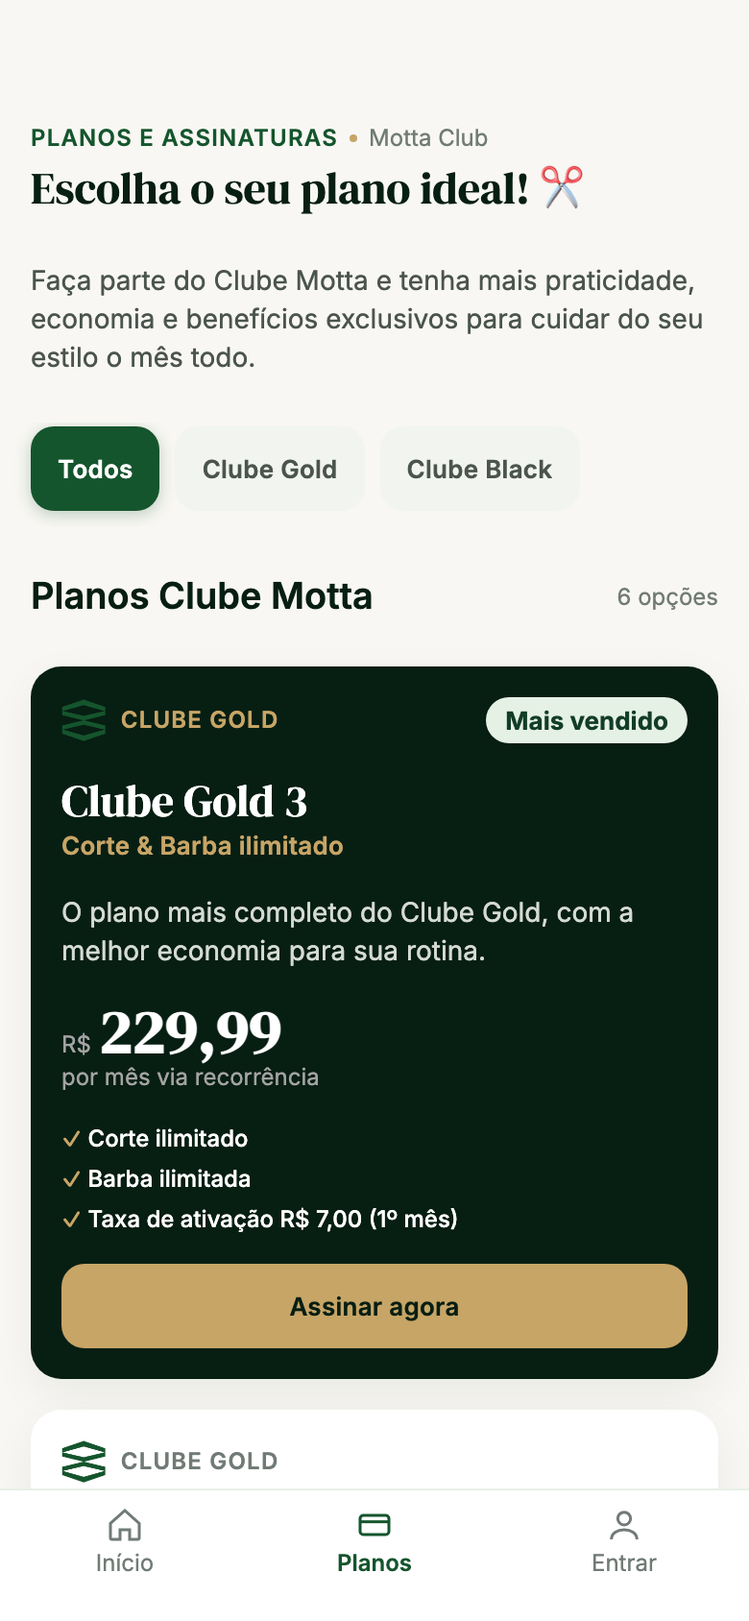
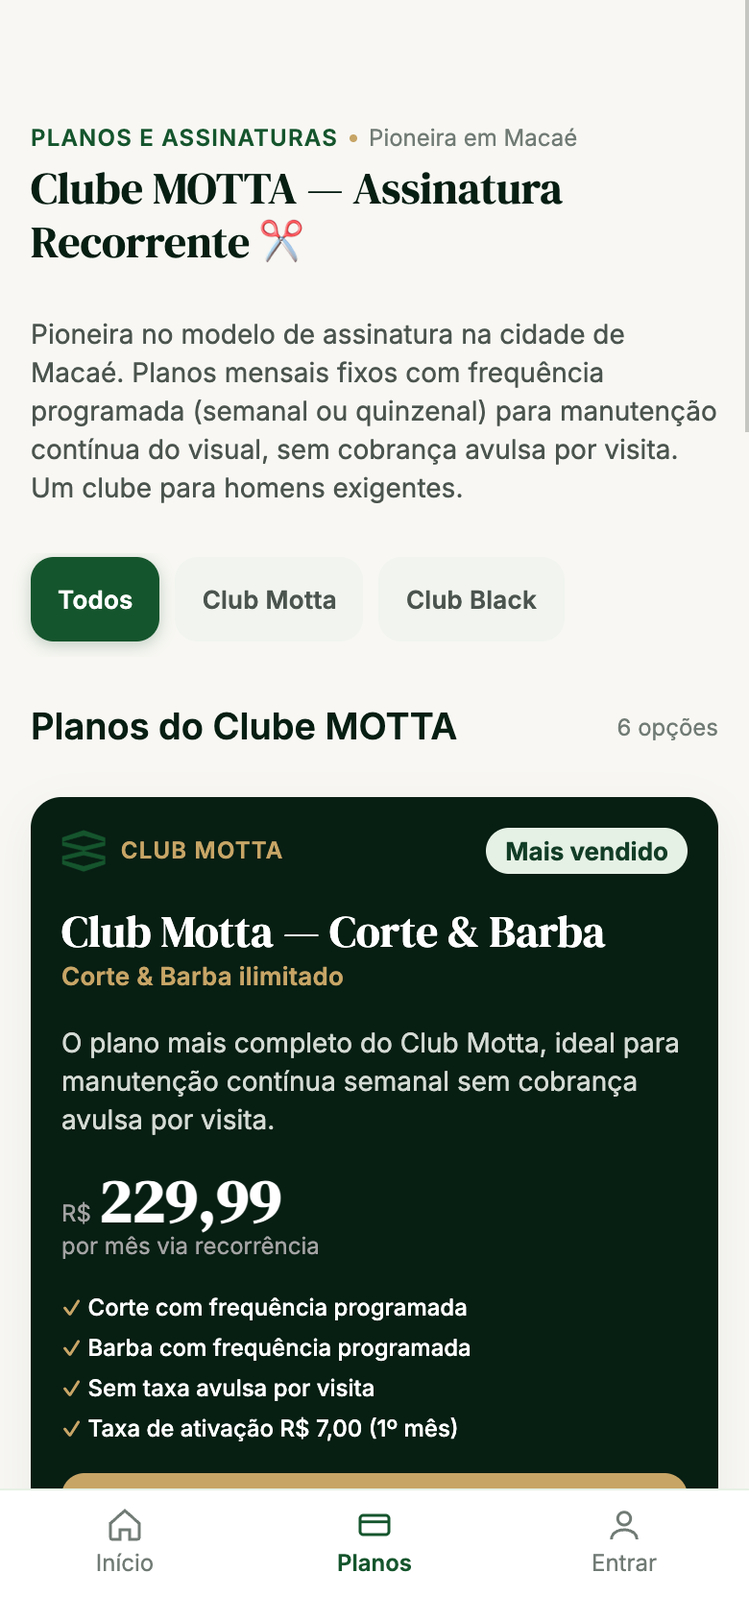
feat: atualizar conceito do clube motta, pilares e whatsapp oficial (22) 99838-9803

Changed region(s): [[0.0308, 0.0616, 0.9846, 0.9242], [0.9846, 0.0, 1.0, 0.2773]]

diff --git a/app/app.js b/app/app.js
@@ -32,12 +32,12 @@ const perks = [
   ["Prioridade na lista de espera", "Vaga automática em caso de desistências"],
 ];
 const plans = [
-  { id: "gold3", tier: "gold", dark: true, tag: "Mais vendido", eyebrow: "Clube Gold", name: "Clube Gold 3", sub: "Corte & Barba ilimitado", desc: "O plano mais completo do Clube Gold, com a melhor economia para sua rotina.", price: "229,99", per: "por mês via recorrência", feats: ["Corte ilimitado", "Barba ilimitada", "Taxa de ativação R$ 7,00 (1º mês)"], cta: "Assinar agora" },
-  { id: "gold2", tier: "gold", name: "Clube Gold 2", sub: "Barba ilimitada", desc: "Ideal para quem quer a barba sempre alinhada e impecável.", price: "129,99", per: "por mês", feats: ["Barba ilimitada", "Vigência indeterminada", "Taxa de ativação R$ 7,00 (1º mês)"], cta: "Comprar" },
-  { id: "gold1", tier: "gold", name: "Clube Gold 1", sub: "Corte ilimitado", desc: "Cortes ilimitados para manter o degradê fresco toda semana.", price: "125,99", per: "por mês", feats: ["Corte ilimitado", "Vigência indeterminada", "Taxa de ativação R$ 7,00 (1º mês)"], cta: "Comprar" },
-  { id: "black1", tier: "black", dark: true, tag: "Vagas limitadas", eyebrow: "Clube Black", name: "Corte Ilimitado Black", sub: "Exclusivo", desc: "Corte sempre em dia, com atendimento prioritário e lavagem especial.", price: "159,99", per: "por mês", scarce: "Resta 4 vaga(s)", feats: ["Corte ilimitado", "Taxa de ativação R$ 7,00 (1º mês)"], cta: "Garantir vaga" },
-  { id: "black2", tier: "black", dark: true, tag: "Vagas limitadas", eyebrow: "Clube Black", name: "Barba Ilimitada Black", sub: "Exclusivo", desc: "Alinhamento, toalha quente e produtos premium da linha Black.", price: "159,99", per: "por mês", scarce: "Resta 1 vaga(s)", feats: ["Barba ilimitada", "Taxa de ativação R$ 7,00 (1º mês)"], cta: "Garantir vaga" },
-  { id: "prime", tier: "black", dark: true, tag: "Poucas vagas", eyebrow: "Clube Black Prime", name: "Corte & Barba Black", sub: "O mais completo", desc: "Total liberdade para barba e corte, bebidas de cortesia e horário flexível.", price: "299,99", per: "por mês na assinatura", scarce: "Resta 14 vaga(s)", feats: ["Corte livre", "Barba livre", "Taxa de ativação R$ 7,00 (1º mês)"], cta: "Garantir vaga" },
+  { id: "gold3", tier: "gold", dark: true, tag: "Mais vendido", eyebrow: "Club Motta", name: "Club Motta — Corte & Barba", sub: "Corte & Barba ilimitado", desc: "O plano mais completo do Club Motta, ideal para manutenção contínua semanal sem cobrança avulsa por visita.", price: "229,99", per: "por mês via recorrência", feats: ["Corte com frequência programada", "Barba com frequência programada", "Sem taxa avulsa por visita", "Taxa de ativação R$ 7,00 (1º mês)"], cta: "Assinar agora" },
+  { id: "gold2", tier: "gold", name: "Club Motta — Barba", sub: "Barba alinhada sempre", desc: "Ideal para quem quer a barba sempre desenhada e alinhada toda semana sem cobrança avulsa.", price: "129,99", per: "por mês", feats: ["Barba com frequência programada", "Barboterapia com toalha quente", "Taxa de ativação R$ 7,00 (1º mês)"], cta: "Comprar" },
+  { id: "gold1", tier: "gold", name: "Club Motta — Corte", sub: "Corte na frequência ideal", desc: "Cortes com frequência programada para manter o visual impecável sem pagar a cada visita.", price: "125,99", per: "por mês", feats: ["Corte com frequência programada", "Manutenção contínua do visual", "Taxa de ativação R$ 7,00 (1º mês)"], cta: "Comprar" },
+  { id: "black1", tier: "black", dark: true, tag: "Vagas limitadas", eyebrow: "Club Black", name: "Club Black — Corte VIP", sub: "Para homens exigentes", desc: "Corte sempre em dia, atendimento prioritário, lavagem especial e produtos da linha profissional.", price: "159,99", per: "por mês", scarce: "Resta 4 vaga(s)", feats: ["Atendimento prioritário", "Corte com frequência programada", "Linha profissional homologada", "Taxa de ativação R$ 7,00 (1º mês)"], cta: "Garantir vaga" },
+  { id: "black2", tier: "black", dark: true, tag: "Vagas limitadas", eyebrow: "Club Black", name: "Club Black — Barba VIP", sub: "Autocuidado premium", desc: "Alinhamento de precisão, toalha quente e tratamentos capilares e de pele com produtos premium.", price: "159,99", per: "por mês", scarce: "Resta 1 vaga(s)", feats: ["Barba com atendimento prioritário", "Toalha quente e barboterapia", "Produtos da linha profissional", "Taxa de ativação R$ 7,00 (1º mês)"], cta: "Garantir vaga" },
+  { id: "prime", tier: "black", dark: true, tag: "Poucas vagas", eyebrow: "Club Black Prime", name: "Club Black — Prime Total", sub: "Experiência definitiva", desc: "Total liberdade para barba e corte, cobertura ampliada com tratamentos e bebidas cortesia.", price: "299,99", per: "por mês na assinatura", scarce: "Resta 14 vaga(s)", feats: ["Corte e Barba prioritários", "Cobertura de tratamentos e cuidados", "Sem cobrança avulsa por visita", "Taxa de ativação R$ 7,00 (1º mês)"], cta: "Garantir vaga" },
 ];
 const upcoming = [
   { id: "a1", day: "24", mon: "Out", time: "15:30", barber: "Michel Nogueira", role: "Barbeiro Master & Visagista", svc: "Corte Masculino + Barba", note: "Em 3 dias", total: "R$ 32,30" },
@@ -200,16 +200,16 @@ const screens = {
       </div>
     </article>
     <section class="hero">
-      <span class="eyebrow" style="letter-spacing:1.2px;">Assinatura Mensal</span>
-      <h2>Cortes Ilimitados?</h2>
-      <p>Faça parte do Clube Motta e cuide do seu estilo toda semana com comodidade.</p>
-      <a class="btn" style="text-decoration:none;text-align:center;background:#fff;color:var(--ink);" href="#/planos">Conhecer planos</a>
+      <span class="eyebrow" style="letter-spacing:1.2px;">Clube por Assinatura</span>
+      <h2>Clube MOTTA — Pioneira em Macaé</h2>
+      <p>Planos mensais fixos para manter corte e barba com frequência programada, sem cobrança avulsa por visita.</p>
+      <a class="btn" style="text-decoration:none;text-align:center;background:#fff;color:var(--ink);font-weight:600;" href="#/planos">Conhecer planos</a>
     </section>
     <section class="card">
-      <div class="item" style="color:var(--ink)">Por que agendar pelo aplicativo?</div>
-      <div class="legend"><b>Pontualidade e Praticidade:</b> Sem filas. Horário reservado exclusivamente.</div>
-      <div class="legend"><b>Barbeiros Especialistas:</b> Visagismo sob medida e consultoria de estilo.</div>
-      <div class="legend"><b>Vantagens Clube Motta:</b> Membros acumulam créditos e desfrutam de bebidas premium cortesia.</div>
+      <div class="item" style="color:var(--ink)">Por que fazer parte do Clube MOTTA?</div>
+      <div class="legend"><b>Pioneirismo em Macaé:</b> Modelo inovador de assinatura recorrente com planos mensais fixos.</div>
+      <div class="legend"><b>Manutenção Contínua:</b> Atendimento semanal ou quinzenal para homens exigentes que prezam pelo visual impecável.</div>
+      <div class="legend"><b>Categorias Sob Medida:</b> Club Motta e Club Black com produtos homologados e visagismo exclusivo.</div>
     </section>`;
   },
   agendamentos() {
@@ -241,16 +241,16 @@ const screens = {
   planos() {
     const f = state.planFilter;
     const list = plans.filter((p) => f === "todos" || p.tier === f);
-    return `${header("Planos e assinaturas", "Motta Club", "Escolha o seu plano ideal! ✂")}
-    <p class="body">Faça parte do Clube Motta e tenha mais praticidade, economia e benefícios exclusivos para cuidar do seu estilo o mês todo.</p>
-    ${tabs([["todos", "Todos"], ["gold", "Clube Gold"], ["black", "Clube Black"]], f, "pf")}
-    <div class="row between"><h2 class="h-section">Planos Clube ${f === "black" ? "Black" : f === "gold" ? "Gold" : "Motta"}</h2><span class="legend">${list.length} opções</span></div>
+    return `${header("Planos e assinaturas", "Pioneira em Macaé", "Clube MOTTA — Assinatura Recorrente ✂")}
+    <p class="body">Pioneira no modelo de assinatura na cidade de Macaé. Planos mensais fixos com frequência programada (semanal ou quinzenal) para manutenção contínua do visual, sem cobrança avulsa por visita. Um clube para homens exigentes.</p>
+    ${tabs([["todos", "Todos"], ["gold", "Club Motta"], ["black", "Club Black"]], f, "pf")}
+    <div class="row between"><h2 class="h-section">${f === "black" ? "Categoria Club Black (VIP)" : f === "gold" ? "Categoria Club Motta" : "Planos do Clube MOTTA"}</h2><span class="legend">${list.length} opções</span></div>
     <div class="col gap16">${list.map((p) => `
       <article class="card ${p.dark ? "dark" : ""}">
         <div class="row between">
           <div class="row" style="gap:8px;align-items:center;">
             <img src="${p.tier === 'black' ? 'assets/logos/club-black-transparent.png' : 'assets/logos/motta-symbol-green.png'}" alt="" style="height:22px;object-fit:contain;">
-            <span class="eyebrow" style="color:${p.dark ? "var(--gold)" : "var(--muted)"}">${p.eyebrow || "Clube Gold"}</span>
+            <span class="eyebrow" style="color:${p.dark ? "var(--gold)" : "var(--muted)"}">${p.eyebrow || "Club Motta"}</span>
           </div>
           ${p.tag ? `<span class="badge" style="${p.scarce ? "background:transparent;color:var(--gold-soft);padding:0" : ""}">${p.tag}</span>` : ""}
         </div>
@@ -258,25 +258,25 @@ const screens = {
         <p class="body">${p.desc}</p>
         <div><span class="legend">R$</span> <span class="price">${p.price}</span><div class="legend">${p.per}</div>${p.scarce ? `<div class="scarce">${p.scarce}</div>` : ""}</div>
         <ul>${p.feats.map((x) => `<li>${x}</li>`).join("")}</ul>
-        <button class="btn ${p.dark ? "gold" : "primary"} block" data-toast="${p.name}: checkout (demo)">${p.cta}</button>
+        <button class="btn ${p.dark ? "gold" : "primary"} block" data-toast="${p.name}: assinatura digital via link da bio / app">${p.cta}</button>
       </article>`).join("")}</div>
-    <section class="card"><div class="item" style="color:var(--text-strong)">Sem carência ou multas</div><div class="legend">Cancele ou pause sua assinatura quando quiser através do aplicativo.</div></section>`;
+    <section class="card"><div class="item" style="color:var(--text-strong)">Recorrência &amp; Gestão Digital</div><div class="legend">Contratação via plataforma integrada, sem carência ou multas. Pause ou altere seu plano quando quiser pelo aplicativo.</div></section>`;
   },
 
   boas_vindas() {
     return `<header class="col gap4">
       <div class="row between" style="align-items:center;">
-        <div class="row"><span class="eyebrow" style="color:var(--gold);letter-spacing:1.92px;">Barbearia Motta</span><span class="dot"></span><span class="legend">Seja Bem-vindo</span></div>
+        <div class="row"><span class="eyebrow" style="color:var(--gold);letter-spacing:1.92px;">Barbearia Motta</span><span class="dot"></span><span class="legend">Pioneira em Macaé</span></div>
         <img src="assets/logos/motta-symbol-green.png" alt="Motta" style="width:26px;height:26px;object-fit:contain;">
       </div>
-      <h1 class="h-display" style="font-size:28px;line-height:34px;">O seu novo ritual de estilo começa aqui.</h1>
-      <p class="body">Cuidado masculino elevado a outro patamar. Atendimento com hora marcada, visagismo exclusivo e hospitalidade premium na unidade Sol &amp; Mar.</p>
+      <h1 class="h-display" style="font-size:28px;line-height:34px;">Clube para homens exigentes.</h1>
+      <p class="body">Cuidado masculino contínuo na unidade Sol &amp; Mar. Frequência programada, visagismo exclusivo, produtos da linha profissional e hospitalidade de excelência.</p>
     </header>
 
     <section class="hero" aria-label="Boas-vindas">
       <div class="row between"><span class="eyebrow">Primeira Experiência</span><span class="pill">Cortesia VIP</span></div>
       <h2>Primeira Visita com Chopp &amp; Café</h2>
-      <p>Chegue 15 minutos antes para relaxar no lounge. Seu atendimento inclui café espresso gourmet ou chopp artesanal gelado cortesia.</p>
+      <p>Chegue 15 minutos antes para relaxar no lounge climatizado. Seu atendimento inclui café espresso gourmet ou chopp artesanal gelado cortesia.</p>
       <div class="row" style="gap:16px;padding-top:8px">
         <div class="meta">Unidade Sol &amp; Mar<b>Av. Carlos Augusto T. Garcia, 2040</b></div>
         <span style="width:1px;height:24px;background:var(--forest-800)"></span>
@@ -307,13 +307,13 @@ const screens = {
       <article class="card">
         <div class="row between">
           <div>
-            <span class="badge" style="background:var(--warn-bg);color:var(--warn-text);margin-bottom:6px;display:inline-block;">Economia Real</span>
-            <div class="item" style="font-size:16px;color:var(--text-strong)">Entrar para o Clube Motta</div>
-            <div class="legend" style="color:var(--text-2);margin-top:2px;">Cortes ou barbas ilimitados a partir de R$ 125,99/mês sem fidelidade.</div>
+            <span class="badge" style="background:var(--warn-bg);color:var(--warn-text);margin-bottom:6px;display:inline-block;">Economia &amp; Recorrência</span>
+            <div class="item" style="font-size:16px;color:var(--text-strong)">Assinar o Clube MOTTA</div>
+            <div class="legend" style="color:var(--text-2);margin-top:2px;">Planos mensais fixos com cortes e barbas semanais/quinzenais sem taxa avulsa por visita.</div>
           </div>
         </div>
         <div class="row between" style="padding-top:4px;">
-          <span class="legend" style="color:var(--text);">Até 100% OFF nos serviços</span>
+          <span class="legend" style="color:var(--text);">Categorias Club Motta e Club Black</span>
           <a class="btn" style="text-decoration:none;text-align:center;" href="#/planos">Conhecer planos</a>
         </div>
       </article>
@@ -321,40 +321,40 @@ const screens = {
 
     <section class="col gap16">
       <div>
-        <h2 class="h-section">Os 4 Pilares da Barbearia Motta</h2>
-        <p class="legend">Por que somos a barbearia referência em Macaé</p>
+        <h2 class="h-section">Pilares do Conceito Clube MOTTA</h2>
+        <p class="legend">Por que somos pioneiros no modelo de assinatura em Macaé</p>
       </div>
       <div class="card">
         <div>
-          <div class="item" style="color:var(--ink)">1. Pontualidade e Precisão</div>
-          <div class="legend" style="color:var(--text-2)">Seu tempo é sagrado. Horário reservado exclusivamente sem atrasos.</div>
+          <div class="item" style="color:var(--ink)">1. Modelo por Assinatura (Membro/Club)</div>
+          <div class="legend" style="color:var(--text-2)">Pioneira na cidade, a Barbearia Motta oferece planos mensais fixos que permitem realizar cortes, barba e manutenções com frequência programada, sem cobrança avulsa por visita.</div>
         </div>
         <div style="height:1px;background:var(--surface-soft);"></div>
         <div>
-          <div class="item" style="color:var(--ink)">2. Consultoria de Visagismo</div>
-          <div class="legend" style="color:var(--text-2)">Análise anatômica para harmonizar corte e barba com seus traços.</div>
+          <div class="item" style="color:var(--ink)">2. Segmentação em Categorias (Club Motta &amp; Club Black)</div>
+          <div class="legend" style="color:var(--text-2)">Membros divididos em níveis de benefícios, variando a cobertura de procedimentos (ex.: apenas corte, corte + barba/barboterapia, sobrancelha e tratamentos capilares como hidratação ou selagem).</div>
         </div>
         <div style="height:1px;background:var(--surface-soft);"></div>
         <div>
-          <div class="item" style="color:var(--ink)">3. Barboterapia Tradicional</div>
-          <div class="legend" style="color:var(--text-2)">Toalha quente aromatizada, óleos essenciais e navalhete esterilizado.</div>
+          <div class="item" style="color:var(--ink)">3. Posicionamento Exclusivo ("Clube para homens exigentes")</div>
+          <div class="legend" style="color:var(--text-2)">Transcende o corte tradicional e opera como um espaço de conveniência e autocuidado masculino contínuo, reduzindo o atrito de agendamento e garantindo padronização de atendimento e produtos da linha profissional.</div>
         </div>
         <div style="height:1px;background:var(--surface-soft);"></div>
         <div>
-          <div class="item" style="color:var(--ink)">4. Hospitalidade Confraria</div>
-          <div class="legend" style="color:var(--text-2)">Chopp artesanal estupidamente gelado, café Nespresso e Wi-Fi dedicado.</div>
+          <div class="item" style="color:var(--ink)">4. Hospitalidade &amp; Confraria Sol &amp; Mar</div>
+          <div class="legend" style="color:var(--text-2)">Chopp artesanal estupidamente gelado, café Nespresso gourmet, valet cortesia no local e atendimento focado em clientes semanais ou quinzenais.</div>
         </div>
       </div>
     </section>
 
     <section class="hero">
-      <span class="eyebrow" style="letter-spacing:1.2px;">Atendimento Humano</span>
+      <span class="eyebrow" style="letter-spacing:1.2px;">Atendimento Humano &amp; Agendamento</span>
       <h2>Ficou com alguma dúvida?</h2>
       <p>Nosso Concierge está pronto para ajudar a escolher o melhor serviço ou profissional para você.</p>
-      <a class="btn" style="text-decoration:none;text-align:center;background:#fff;color:var(--ink);" href="https://wa.me/5522997624631" target="_blank" rel="noopener">Falar no WhatsApp</a>
+      <a class="btn" style="text-decoration:none;text-align:center;background:#fff;color:var(--ink);font-weight:600;" href="https://wa.me/5522998389803" target="_blank" rel="noopener">Falar no WhatsApp: (22) 99838-9803</a>
     </section>
 
-    <p class="legend" style="text-align:center;">Barbearia Motta Macaé • Ateliê &amp; Estética Masculina</p>`;
+    <p class="legend" style="text-align:center;">Barbearia Motta Macaé • Av. Carlos Augusto T. Garcia, 2040 – Sol e Mar, Macaé/RJ</p>`;
   },
   login() {
     return `<header class="col gap4" style="align-items:center;text-align:center;">
@@ -379,7 +379,7 @@ const screens = {
 
       <label class="col" style="gap:4px">
         <span class="legend" style="font-weight:600;color:var(--text-strong)">Telefone (WhatsApp) *</span>
-        <input id="auth-phone" type="tel" value="(22) 99762-4631" placeholder="(22) 99999-9999" required style="min-height:44px;padding:10px 12px;border-radius:var(--r-md);border:1px solid #d4dad4;background:#fff;font:400 14px var(--sans);color:#171B18">
+        <input id="auth-phone" type="tel" value="(22) 99838-9803" placeholder="(22) 99838-9803" required style="min-height:44px;padding:10px 12px;border-radius:var(--r-md);border:1px solid #d4dad4;background:#fff;font:400 14px var(--sans);color:#171B18">
       </label>
 
       <label class="col" style="gap:4px">
@@ -405,27 +405,27 @@ const screens = {
           <img src="assets/logos/motta-symbol-dark.png" alt="Barbearia Motta" style="width:34px;height:34px;object-fit:contain;">
           <div>
             <div class="eyebrow" style="color:var(--gold);letter-spacing:1.5px;font-size:11px;">Barbearia Motta</div>
-            <div class="legend" style="font-size:11px;">Macaé • Sol &amp; Mar</div>
+            <div class="legend" style="font-size:11px;">Pioneira em Assinatura • Sol &amp; Mar</div>
           </div>
         </div>
         <img src="assets/logos/club-motta-transparent.png" alt="Club Motta" style="height:32px;object-fit:contain;">
       </div>
-      <h1 class="h-display" style="font-size:28px;line-height:34px;color:var(--ink);margin-top:2px;">Ateliê &amp; Estética Masculina</h1>
-      <p class="body" style="color:var(--text);">O seu ritual de cuidado com hora marcada, visagismo e atendimento de excelência.</p>
+      <h1 class="h-display" style="font-size:28px;line-height:34px;color:var(--ink);margin-top:2px;">Clube para homens exigentes.</h1>
+      <p class="body" style="color:var(--text);">Manutenção contínua do visual sem atrito de agendamento, produtos da linha profissional e hospitalidade de excelência em Macaé.</p>
     </header>
 
     <!-- Card Central: Novo por aqui? -->
     <section class="hero" style="border:2px solid var(--gold);box-shadow:0 10px 28px rgba(7,30,19,0.22);padding:20px;text-align:center;align-items:center;gap:12px;">
       <div class="row" style="gap:8px;justify-content:center;align-items:center;">
         <img src="assets/logos/motta-symbol-gold.png" alt="" style="width:22px;height:22px;object-fit:contain;">
-        <span class="pill" style="background:rgba(199,165,102,0.2);color:var(--gold-soft);">✦ Novo por aqui?</span>
+        <span class="pill" style="background:rgba(199,165,102,0.2);color:var(--gold-soft);">✦ Clube MOTTA • Pioneira em Macaé</span>
       </div>
       <h2 style="font-size:24px;line-height:30px;color:#fff;">Crie sua conta e viva a experiência Motta</h2>
-      <p class="body" style="color:var(--on-dark);max-width:320px;margin:0 auto;">Agende seu horário com os melhores barbeiros da cidade. Atendimento com ou sem assinatura de planos.</p>
+      <p class="body" style="color:var(--on-dark);max-width:320px;margin:0 auto;">Agende seu horário com os melhores barbeiros da cidade. Planos mensais fixos com frequência programada ou agendamento avulso direto.</p>
       
       <div class="col gap8" style="width:100%;padding-top:4px;">
         <a class="btn primary" style="background:var(--gold);color:var(--ink);font-weight:700;text-align:center;text-decoration:none;min-height:46px;display:flex;align-items:center;justify-content:center;" href="#/login">Criar Conta / Entrar</a>
-        <a class="btn" style="background:rgba(255,255,255,0.12);color:#fff;text-align:center;text-decoration:none;min-height:42px;display:flex;align-items:center;justify-content:center;" href="#/boas_vindas">Conhecer a Barbearia &amp; Hospitalidade</a>
+        <a class="btn" style="background:rgba(255,255,255,0.12);color:#fff;text-align:center;text-decoration:none;min-height:42px;display:flex;align-items:center;justify-content:center;" href="#/boas_vindas">Conhecer o Conceito &amp; Hospitalidade</a>
       </div>
     </section>
 
@@ -455,9 +455,9 @@ const screens = {
       <article class="card" style="border:1.5px solid var(--gold);background:linear-gradient(180deg, #FFFFFF 0%, #F9F7F2 100%);">
         <div class="row between">
           <div>
-            <span class="badge" style="background:var(--warn-bg);color:var(--warn-text);margin-bottom:6px;display:inline-block;">★ Maior Economia</span>
-            <div class="item" style="font-size:16px;color:var(--text-strong)">Clube Motta — Assinatura</div>
-            <div class="legend" style="color:var(--text-2);margin-top:2px;">Cortes ou barbas ilimitados o mês todo com atendimento prioritário e chopp artesanal liberado.</div>
+            <span class="badge" style="background:var(--warn-bg);color:var(--warn-text);margin-bottom:6px;display:inline-block;">★ Manutenção Contínua</span>
+            <div class="item" style="font-size:16px;color:var(--text-strong)">Clube MOTTA — Assinatura Recorrente</div>
+            <div class="legend" style="color:var(--text-2);margin-top:2px;">Planos mensais fixos com frequência semanal ou quinzenal programada, sem cobrança avulsa por visita. Categorias Club Motta e Club Black.</div>
           </div>
         </div>
         <div class="row between" style="padding-top:6px;border-top:1px solid #EBE5D8;margin-top:6px;">
@@ -481,6 +481,10 @@ const screens = {
         </div>
       </div>
       <div class="legend" style="color:var(--text-2);line-height:18px;">Lounge climatizado com Café Nespresso e Chopp Artesanal inclusos em todos os atendimentos.</div>
+      <div class="row between" style="padding-top:6px;border-top:1px solid var(--surface-soft);">
+        <span class="legend" style="color:var(--forest);font-weight:600;">WhatsApp Oficial: (22) 99838-9803</span>
+        <a class="link" style="font-size:12px;color:var(--forest);font-weight:700;text-decoration:none;" href="https://wa.me/5522998389803" target="_blank" rel="noopener">Falar agora →</a>
+      </div>
     </section>
 
     <div class="row" style="gap:8px;">

diff --git a/README.md b/README.md
@@ -8,6 +8,28 @@ Aplicação web mobile-first de agendamento de serviços, gestão de assinaturas
 
 O projeto foi construído com base na identidade visual oficial e nas 14 telas do Figma, oferecendo uma experiência premium com foco em hospitalidade, agilidade e visagismo masculino.
 
+### O Clube MOTTA
+
+O **Clube MOTTA** é o modelo de assinatura recorrente da **Barbearia Motta** em Macaé, estruturado para fidelização de clientes e manutenção contínua do visual.
+
+#### Pilares do Conceito
+
+* **Modelo por Assinatura (Membro/Club):** Posicionada como pioneira no modelo de assinatura na cidade de Macaé, a barbearia oferece planos mensais fixos que permitem ao membro realizar cortes, barba e manutenções com frequência programada, sem cobrança avulsa por visita.
+* **Segmentação em Categorias (Club Motta & Club Black):** Divide os membros em níveis de serviço e benefícios:
+  - *Club Motta:* foco no alinhamento contínuo (apenas corte, apenas barba ou combo corte + barba).
+  - *Club Black:* nível VIP com atendimento prioritário, linha profissional de tratamentos (hidratação capilar, selagem) e barboterapia completa.
+* **Posicionamento Exclusivo ("Clube para homens exigentes"):** O formato transcende o corte tradicional e opera como um espaço de conveniência e autocuidado masculino contínuo, reduzindo o atrito de agendamento e garantindo padronização de atendimento e produtos da linha profissional.
+
+#### Funcionamento Operacional & Contato
+
+1. **Recorrência & Gestão:** Contratação via plataforma de assinatura/agendamento digital integrada (via link da bio ou aplicativo).
+2. **Atendimento Prioritário/Frequente:** Foco em clientes que mantêm a barba e o corte alinhados semanal ou quinzenalmente.
+3. **Localização & Contato Oficial:**
+   - **Endereço:** Av. Carlos Augusto T. Garcia, 2040 – Sol e Mar, Macaé/RJ.
+   - **WhatsApp / Agendamentos:** (22) 99838-9803 (`https://wa.me/5522998389803`).
+
+---
+
 ### Principais Funcionalidades
 
 - **Onboarding e Conversão de Novos Clientes**: Tela inicial com chamada dedicada para agendamento avulso (a partir de R$ 49,99) ou com assinatura do Clube Motta.

diff --git a/DESIGN_SYSTEM.md b/DESIGN_SYSTEM.md
@@ -65,6 +65,26 @@ Arquivos oficiais localizados em `app/assets/logos/`:
 | **Club Motta Logo** | `club-motta-transparent.png` | Header principal, tela de login, voucher digital |
 | **Club Black Logo** | `club-black-transparent.png` | Cards de planos Clube Black e Clube Black Prime |
 
+---
+
+## 🏛 Posicionamento Canônico & Pilares do Clube MOTTA
+
+O **Clube MOTTA** é o modelo de assinatura recorrente da **Barbearia Motta** em Macaé, estruturado para fidelização de clientes e manutenção contínua do visual.
+
+1. **Modelo por Assinatura (Membro/Club)**:
+   - Posicionamento de pioneirismo: o primeiro clube por assinatura de barbearia em Macaé.
+   - Planos mensais fixos com frequência programada (semanal ou quinzenal), eliminando cobranças avulsas por visita.
+2. **Segmentação em Categorias (Club Motta & Club Black)**:
+   - *Club Motta:* foco no visual impecável constante (corte, barba ou ambos).
+   - *Club Black:* nível VIP para homens que buscam atendimento prioritário, tratamentos de linha profissional (hidratação capilar, selagem) e barboterapia integral.
+3. **Posicionamento Exclusivo ("Clube para homens exigentes")**:
+   - Transcende o serviço tradicional de corte e atua como ecossistema contínuo de conveniência, autocuidado masculino e produtos homologados.
+4. **Canais Oficiais & Localização**:
+   - **Endereço:** Av. Carlos Augusto T. Garcia, 2040 – Sol e Mar, Macaé/RJ.
+   - **WhatsApp / Concierge:** (22) 99838-9803 (`https://wa.me/5522998389803`).
+
+---
+
 ## Componentes
 
 - **Eyebrow + título**: eyebrow forest + ponto gold 4px + legenda muted; título serif.

diff --git a/TODO.md b/TODO.md
@@ -46,3 +46,10 @@
   - Planos (#/planos): 6 planos com logos Club Black e Club Gold validados
   - Boas-Vindas (#/boas_vindas) e Login (#/login): verificados com sucesso
   - 6 screenshots capturados e armazenados em app/assets/screenshots/
+- [x] Atualização Institucional do Clube MOTTA & Canais Oficiais:
+  - Pilares do Conceito integrados: Pioneirismo no modelo de assinatura em Macaé, sem cobrança avulsa por visita.
+  - Segmentação em Categorias: Club Motta (essencial/manutenção contínua) e Club Black (VIP, atendimento prioritário, linha profissional).
+  - Posicionamento Exclusivo: "Clube para homens exigentes", reduzindo atrito de agendamento e garantindo padronização técnica.
+  - WhatsApp oficial canônico atualizado em todas as telas e links: (22) 99838-9803 (https://wa.me/5522998389803).
+  - Endereço canônico confirmado: Av. Carlos Augusto T. Garcia, 2040 – Sol e Mar, Macaé/RJ.
+  - Documentação sincronizada em README.md e DESIGN_SYSTEM.md.
